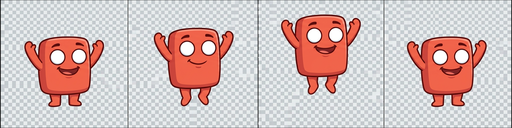
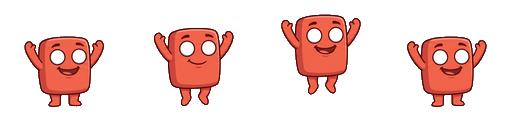
fix: reprocess sprite transparency and increase character size
- Reprocess all 10 character sprites with saturation-based background
  removal using flood-fill from edges — fixes idle and jumping sprites
  that had 0% transparency from the old threshold-based approach
- Increase sprite quad from 48x48 to 64x64 to better match the visual
  size of the old procedural character (40x40 body + legs)

diff --git a/public/js/rendering/threejs/CharacterRenderer.js b/public/js/rendering/threejs/CharacterRenderer.js
@@ -21,9 +21,10 @@ const FRAME_COUNT = 4;
 const IDLE_FRAME_DURATION = 0.25;
 const ACTION_FRAME_DURATION = 0.12;
 
-// Sprite quad size in world units (matches old 40×40 body roughly)
-const SPRITE_W = 48;
-const SPRITE_H = 48;
+// Sprite quad size in world units — larger than entity hitbox (40×40)
+// because the sprite frame (128×128) has padding around the character
+const SPRITE_W = 64;
+const SPRITE_H = 64;
 
 // Pupil positioning relative to sprite center (tuned to sprite eye locations)
 const EYE_OFFSET_X = 6; // distance from center to each eye
